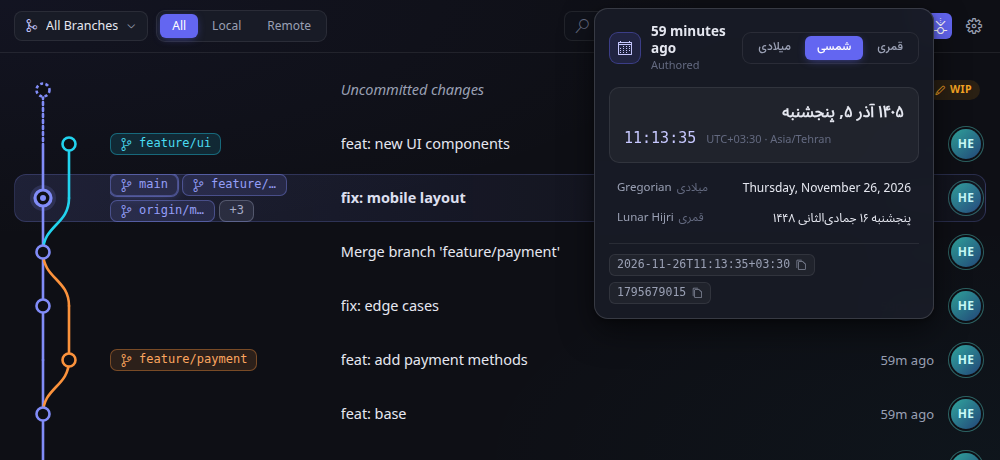
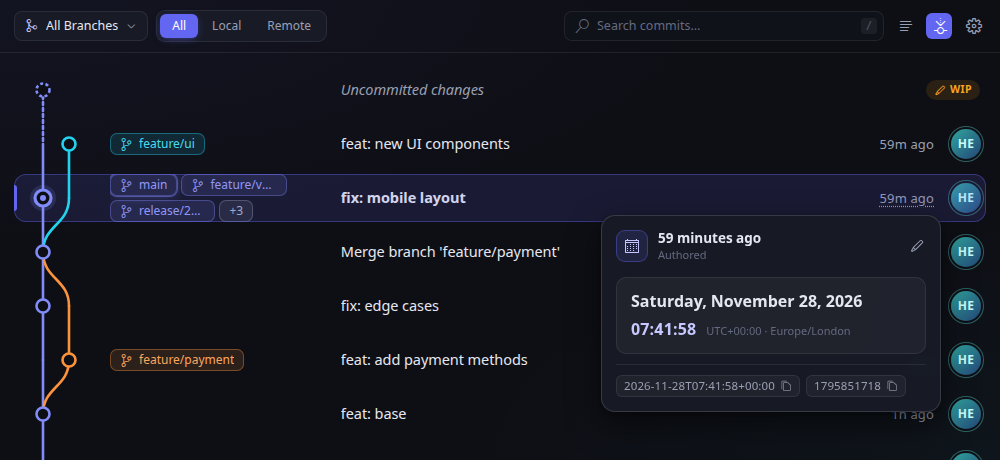
docs(readme): Source Control button, inline blame hover, Gregorian date card
- Title matches the new display name, Git Workspace Graph.
- Document the Git Graph button in the Source Control title bar.
- Add an inline blame screenshot with its hover and describe it.
- Retake the date card screenshot with the Gregorian calendar.

diff --git a/README.md b/README.md
@@ -1,8 +1,8 @@
 <div align="center">
 
-<img src="media/icon.png" width="96" alt="Git Workspace logo" />
+<img src="media/icon.png" width="96" alt="Git Workspace Graph logo" />
 
-# Git Workspace
+# Git Workspace Graph
 
 **A modern Git graph, source control panel and inline blame for VS Code.**
 Do your daily Git work without opening a terminal.
@@ -56,16 +56,30 @@ Do your daily Git work without opening a terminal.
 
 <br clear="right" />
 
+### Git Graph button in Source Control
+
+The extension adds a **Git Graph** button (merge icon) to the title bar of VS Code's built-in **Source Control** view, next to the commit box. Click it to open the Git Graph without leaving the view you are working in.
+
 ### Hover cards
 
 | Author card | Date card |
 |---|---|
 | ![Author card](docs/screenshots/author-card.png) | ![Date card](docs/screenshots/date-card.png) |
-| Commit count, first and last activity, other names used with the same email, and a custom avatar. | Relative and full time with time zone in your calendar (**Gregorian**, **Solar Hijri (Shamsi)** or **Lunar Hijri (Qamari)**), ISO 8601 and Unix values. Use ✏ to change the calendar or date format. |
+| Commit count, first and last activity, other names used with the same email, and a custom avatar. | Relative and full date and time with time zone, in your calendar: **Gregorian** (default), **Solar Hijri** or **Lunar Hijri**. Also ISO 8601 and Unix values, one click to copy. Use ✏ to change the calendar or date format. |
 
 ### Inline blame
 
-The current line shows a faint note with the author, the time and the commit summary. Hover over it for details and an **Open in Git Graph** link. You can change the format and the delay.
+<img src="docs/screenshots/inline-blame.png" alt="Inline blame note and hover on the current line" width="100%" />
+
+When you click a line in the editor, a faint note appears at its end with the author, the time and the summary of the last commit that changed that line.
+
+Move the pointer over the note to see a short description of that change:
+
+- author, relative time and exact date
+- commit message
+- short hash and an **Open in Git Graph** link, which selects that commit in the graph
+
+You can change the note format and the delay, or turn it off, in [Settings](#settings).
 
 ### Themes and palettes
 
@@ -94,7 +108,7 @@ Requires VS Code 1.90 or newer and Git on your `PATH` (or set `git.path`).
 
 | What | How |
 |---|---|
-| Open the Git Graph | <kbd>Ctrl</kbd>+<kbd>Alt</kbd>+<kbd>G</kbd> (<kbd>⌘</kbd>+<kbd>Alt</kbd>+<kbd>G</kbd> on macOS), or the **Git Workspace** icon in the Activity Bar → arrow on the working tree card |
+| Open the Git Graph | <kbd>Ctrl</kbd>+<kbd>Alt</kbd>+<kbd>G</kbd> (<kbd>⌘</kbd>+<kbd>Alt</kbd>+<kbd>G</kbd> on macOS), the **Git Graph** button in the Source Control title bar, or the **Git Workspace** icon in the Activity Bar → arrow on the working tree card |
 | Show or hide commit details | Click a commit, or press <kbd>Enter</kbd> / <kbd>Space</kbd> |
 | Move between commits | <kbd>↑</kbd> <kbd>↓</kbd> <kbd>PgUp</kbd> <kbd>PgDn</kbd> <kbd>Home</kbd> <kbd>End</kbd> |
 | Search | <kbd>/</kbd> or <kbd>Ctrl</kbd>+<kbd>F</kbd>, then <kbd>Enter</kbd> / <kbd>Shift</kbd>+<kbd>Enter</kbd> for the next or previous match |
